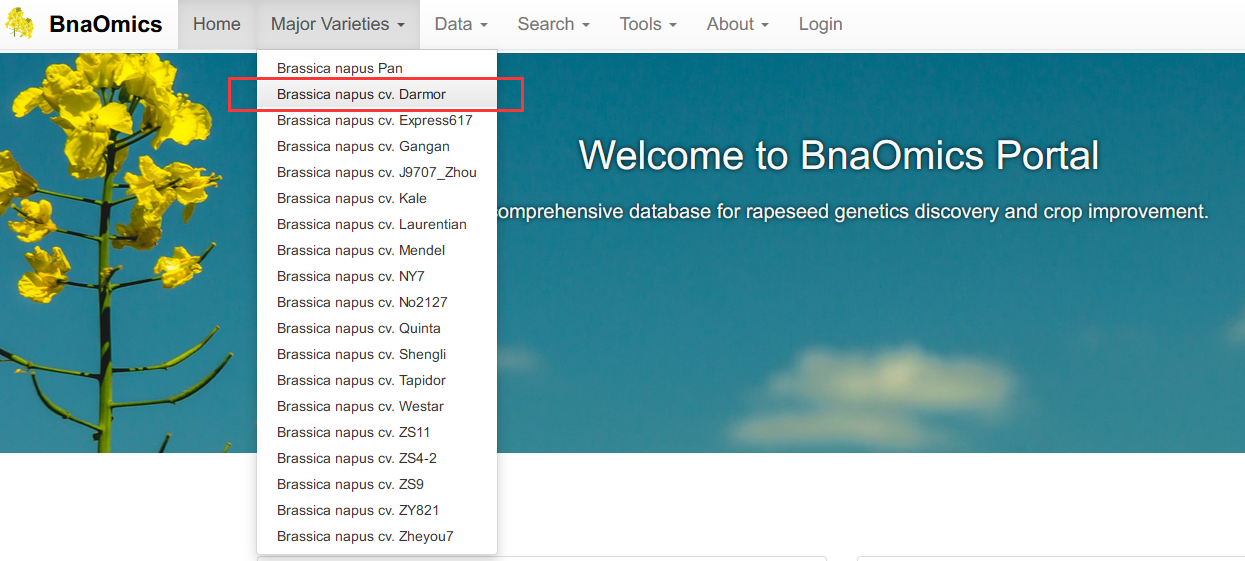
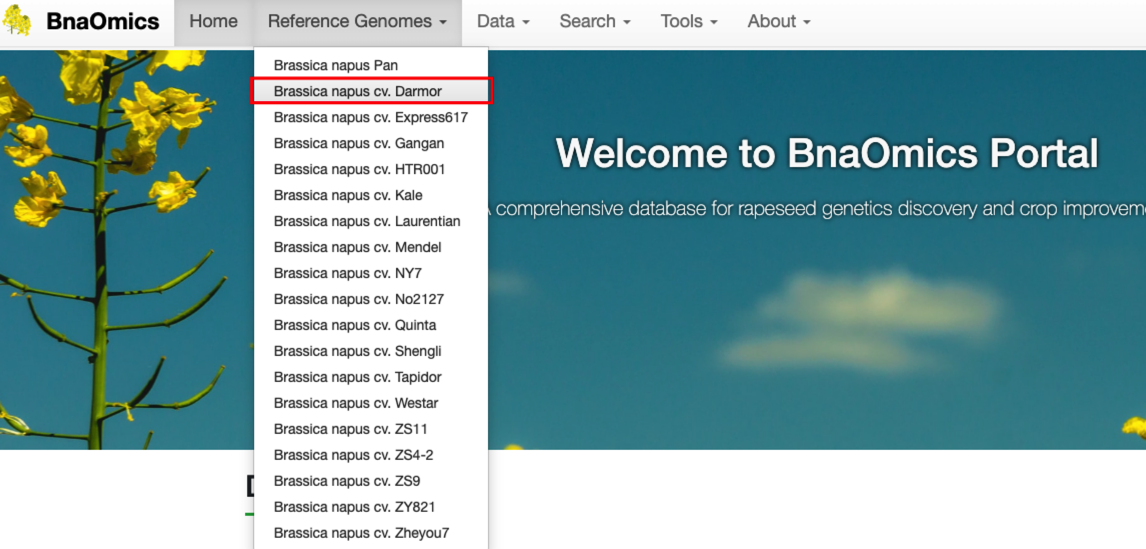
update reference genomes overview page

diff --git a/reference_genomes/index.rst b/reference_genomes/index.rst
@@ -1,14 +1,14 @@
-Major Varieties Overview Page
+Reference Genomes Overview Page
 =============================
 
-All the available data for each major varieties is easily found through
+All the available data for each reference genome is easily found through
 their Overview page. From the BnaOmics homepage, these are accessed
 either by selecting them in the Major Varieties menu in the toolbar.
 
 .. figure:: /_static/major-varities-menu-1.png
    :alt: 
 
-On each Major Varieties Overview page, there are two main sections. The
+On each Reference Genomes Overview page, there are two main sections. The
 left side toolbar is static and has a Data section and a Tools section.
 The links in these sections either change the information to the right
 of the toolbar, or open another tab with the linked information. Major
